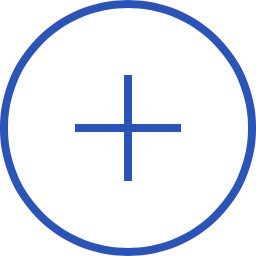
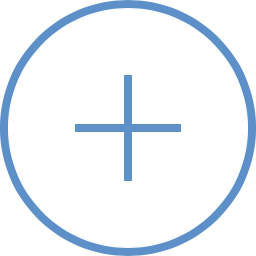
blue

Changed region(s): [[0.0, 0.0, 1.0, 1.0], [0.2812, 0.2812, 0.7188, 0.7188]]

diff --git a/Chess♔/SettingsPage.swift b/Chess♔/SettingsPage.swift
@@ -214,7 +214,7 @@ self.title = "Settings"
         bc2.addSubview(label11)
         
         notificationsSwitch.setOn(true, animated: true)
-        notificationsSwitch.onTintColor = UIColor(red: 44/225, green: 84/225, blue: 184/225, alpha: 1)
+        notificationsSwitch.onTintColor = blue
         notificationsSwitch.tintColor = UIColor(red:0.93, green:0.92, blue:0.92, alpha:1.0)
         notificationsSwitch.frame = CGRectMake(screenWidth - 65, label1.frame.origin.y + 7, 0, 0)
         notificationsSwitch.contentHorizontalAlignment = UIControlContentHorizontalAlignment.Center
@@ -222,7 +222,7 @@ self.title = "Settings"
         scrollView.addSubview(notificationsSwitch)
         
         darkModeSwitch.setOn(false, animated: true)
-        darkModeSwitch.onTintColor = UIColor(red: 44/225, green: 84/225, blue: 184/225, alpha: 1)
+        darkModeSwitch.onTintColor = blue
         darkModeSwitch.tintColor = UIColor(red:0.93, green:0.92, blue:0.92, alpha:1.0)
         darkModeSwitch.frame = CGRectMake(screenWidth - 65, label2.frame.origin.y + 7, 0, 0)
         darkModeSwitch.contentHorizontalAlignment = UIControlContentHorizontalAlignment.Center
@@ -230,7 +230,7 @@ self.title = "Settings"
         bc1.addSubview(darkModeSwitch)
         
         submitSwitch.setOn(true, animated: true)
-        submitSwitch.onTintColor = UIColor(red: 44/225, green: 84/225, blue: 184/225, alpha: 1)
+        submitSwitch.onTintColor = blue
         submitSwitch.tintColor = UIColor(red:0.93, green:0.92, blue:0.92, alpha:1.0)
         submitSwitch.frame = CGRectMake(screenWidth - 65,label3.frame.origin.y + 7, 0, 0)
         submitSwitch.contentHorizontalAlignment = UIControlContentHorizontalAlignment.Center
@@ -238,7 +238,7 @@ self.title = "Settings"
         bc1.addSubview(submitSwitch)
         
         everyoneSwitch.setOn(true, animated: true)
-        everyoneSwitch.onTintColor = UIColor(red: 44/225, green: 84/225, blue: 184/225, alpha: 1)
+        everyoneSwitch.onTintColor = blue
         everyoneSwitch.tintColor = UIColor(red:0.93, green:0.92, blue:0.92, alpha:1.0)
         everyoneSwitch.frame = CGRectMake(screenWidth - 65, friendsOnlyText.frame.origin.y + 7, 0, 0)
         everyoneSwitch.contentHorizontalAlignment = UIControlContentHorizontalAlignment.Center
@@ -333,18 +333,29 @@ self.title = "Settings"
     func lightOrDarkMode() {
         if darkMode == true {
             
-            
             self.navigationController?.navigationBar.barStyle = UIBarStyle.Black
-            self.navigationController?.navigationBar.barTintColor = UIColor.darkGrayColor()
-            self.navigationController?.navigationBar.barTintColor = UIColor(red: 0.05, green: 0.05 , blue: 0.05, alpha: 1)
+            self.navigationController?.navigationBar.translucent = false
+            
+            self.navigationController?.navigationBar.backgroundColor = UIColor(red: 0.15, green: 0.15 , blue: 0.15, alpha: 1)
+            self.navigationController?.navigationBar.barTintColor = UIColor(red: 0.15, green: 0.15 , blue: 0.15, alpha: 1)
             
             self.view.backgroundColor = UIColor(red: 0.15, green: 0.15 , blue: 0.15, alpha: 1)
             self.tabBarController?.tabBar.barStyle = UIBarStyle.Black
-            self.tabBarController?.tabBar.tintColor = UIColor.whiteColor()
-            self.navigationController?.navigationBar.tintColor = UIColor.whiteColor()
+            self.tabBarController?.tabBar.tintColor = blue
+            self.tabBarController?.tabBar.barTintColor = UIColor(red: 0.15, green: 0.15 , blue: 0.15, alpha: 1)
+            self.navigationController?.navigationBar.tintColor = blue
+            
+            
+            visualEffectView.effect = UIBlurEffect(style: .Dark)
+            
+            blue = UIColor(red:0.27, green:0.59, blue:0.94, alpha:1.0)
+            
+            
+            
             self.scrollView.backgroundColor = UIColor(red: 0.15, green: 0.15 , blue: 0.15, alpha: 1)
             
-            
+            blue = UIColor(red:0.36, green:0.56, blue:0.79, alpha:1.0)
+
             
             
         }
@@ -360,7 +371,7 @@ self.title = "Settings"
             
             self.tabBarController?.tabBar.barTintColor = UIColor.whiteColor()
 
-            
+            blue = UIColor(red:0.36, green:0.56, blue:0.79, alpha:1.0)
             
         }
         

diff --git a/Chess♔/ProfilePage.swift b/Chess♔/ProfilePage.swift
@@ -137,7 +137,7 @@ class ProfilePage: UIViewController, UIScrollViewDelegate {
         profilePic.layer.cornerRadius = profilePic.frame.size.height / 2
         profilePic.clipsToBounds = true
         profilePic.layer.borderColor = UIColor.whiteColor().CGColor
-        profilePic.layer.borderWidth = 1
+        profilePic.layer.borderWidth = 0
         profilePic.contentMode = UIViewContentMode.ScaleAspectFill
         contentView.addSubview(profilePic)
         
@@ -169,10 +169,10 @@ class ProfilePage: UIViewController, UIScrollViewDelegate {
         }
         
         //adding username to view
-        let label = UILabel(frame: CGRectMake(profilePic.frame.origin.x + 95 , contentView.frame.size.height/8, 250, 30))
+        let label = UILabel(frame: CGRectMake(profilePic.frame.origin.x + 95 , contentView.frame.size.height/8 + 13.5, 250, 30))
         label.textAlignment = NSTextAlignment.Left
         label.text = PFUser.currentUser()?.username
-        label.font = UIFont(name: "Didot", size: 22)
+        label.font = UIFont(name: "Didot-Bold", size: 22)
         label.sizeToFit()
         if darkMode { label.textColor = UIColor.whiteColor() }
         else { label.textColor = UIColor.blackColor() }
@@ -186,7 +186,7 @@ class ProfilePage: UIViewController, UIScrollViewDelegate {
         label2.numberOfLines = 0
         label2.font = UIFont(name: "Didot-Italic", size: 14)
         if darkMode { label2.textColor = UIColor.whiteColor() }
-        else { label2.textColor = UIColor.blackColor() }
+        else { label2.textColor = UIColor.darkGrayColor() }
         contentView.addSubview(label2)
         
 

diff --git a/Chess♔/GameMenu.swift b/Chess♔/GameMenu.swift
@@ -32,7 +32,8 @@ public class Reachability {
 
 
 //var blue = UIColor(red:0.17, green:0.33, blue:0.71, alpha:1.0)
-var blue = UIColor(red:0.27, green:0.59, blue:0.94, alpha:1.0)
+//var blue = UIColor(red:0.27, green:0.59, blue:0.94, alpha:1.0)
+var blue = UIColor(red:0.36, green:0.56, blue:0.79, alpha:1.0)
 
 
 var gameIDS = []
@@ -1209,6 +1210,8 @@ class GameMenu: UIViewController, UIScrollViewDelegate,UINavigationBarDelegate, 
                 visualEffectView.effect = UIBlurEffect(style: .Dark)
 
                 blue = UIColor(red:0.27, green:0.59, blue:0.94, alpha:1.0)
+                blue = UIColor(red:0.36, green:0.56, blue:0.79, alpha:1.0)
+
 
             
         }
@@ -1231,6 +1234,12 @@ class GameMenu: UIViewController, UIScrollViewDelegate,UINavigationBarDelegate, 
                 tableView.backgroundColor = UIColor.whiteColor()
 
                 blue = UIColor(red:0.27, green:0.59, blue:0.94, alpha:1.0)
+           // blue = UIColor(red:0.23, green:0.53, blue:0.85, alpha:1.0)
+            // blue = UIColor(red:0.17, green:0.33, blue:0.71, alpha:1.0)
+                blue = UIColor(red:0.36, green:0.56, blue:0.79, alpha:1.0)
+
+
+
 
             
         }

diff --git a/Chess♔/OtherUserProfilePage_Explore.swift b/Chess♔/OtherUserProfilePage_Explore.swift
@@ -207,7 +207,7 @@ class OtherUserProfilePage: UIViewController, UIScrollViewDelegate, UIAlertViewD
         profilePic.layer.cornerRadius = profilePic.frame.size.height / 2
         profilePic.clipsToBounds = true
         profilePic.layer.borderColor = UIColor.whiteColor().CGColor
-        profilePic.layer.borderWidth = 1
+        profilePic.layer.borderWidth = 0
         profilePic.image = UIImage(data: imageData)
         profilePic.contentMode = UIViewContentMode.ScaleAspectFill
         contentView.addSubview(profilePic)

diff --git a/Chess♔/OtherUserProfilePage_Profile.swift b/Chess♔/OtherUserProfilePage_Profile.swift
@@ -206,7 +206,7 @@ class OtherUserProfilePage_Profile: UIViewController, UIScrollViewDelegate, UIAl
         profilePic.layer.cornerRadius = profilePic.frame.size.height / 2
         profilePic.clipsToBounds = true
         profilePic.layer.borderColor = UIColor.whiteColor().CGColor
-        profilePic.layer.borderWidth = 3
+        profilePic.layer.borderWidth = 0
         profilePic.image = UIImage(data: imageData)
         profilePic.contentMode = UIViewContentMode.ScaleAspectFill
         contentView.addSubview(profilePic)
